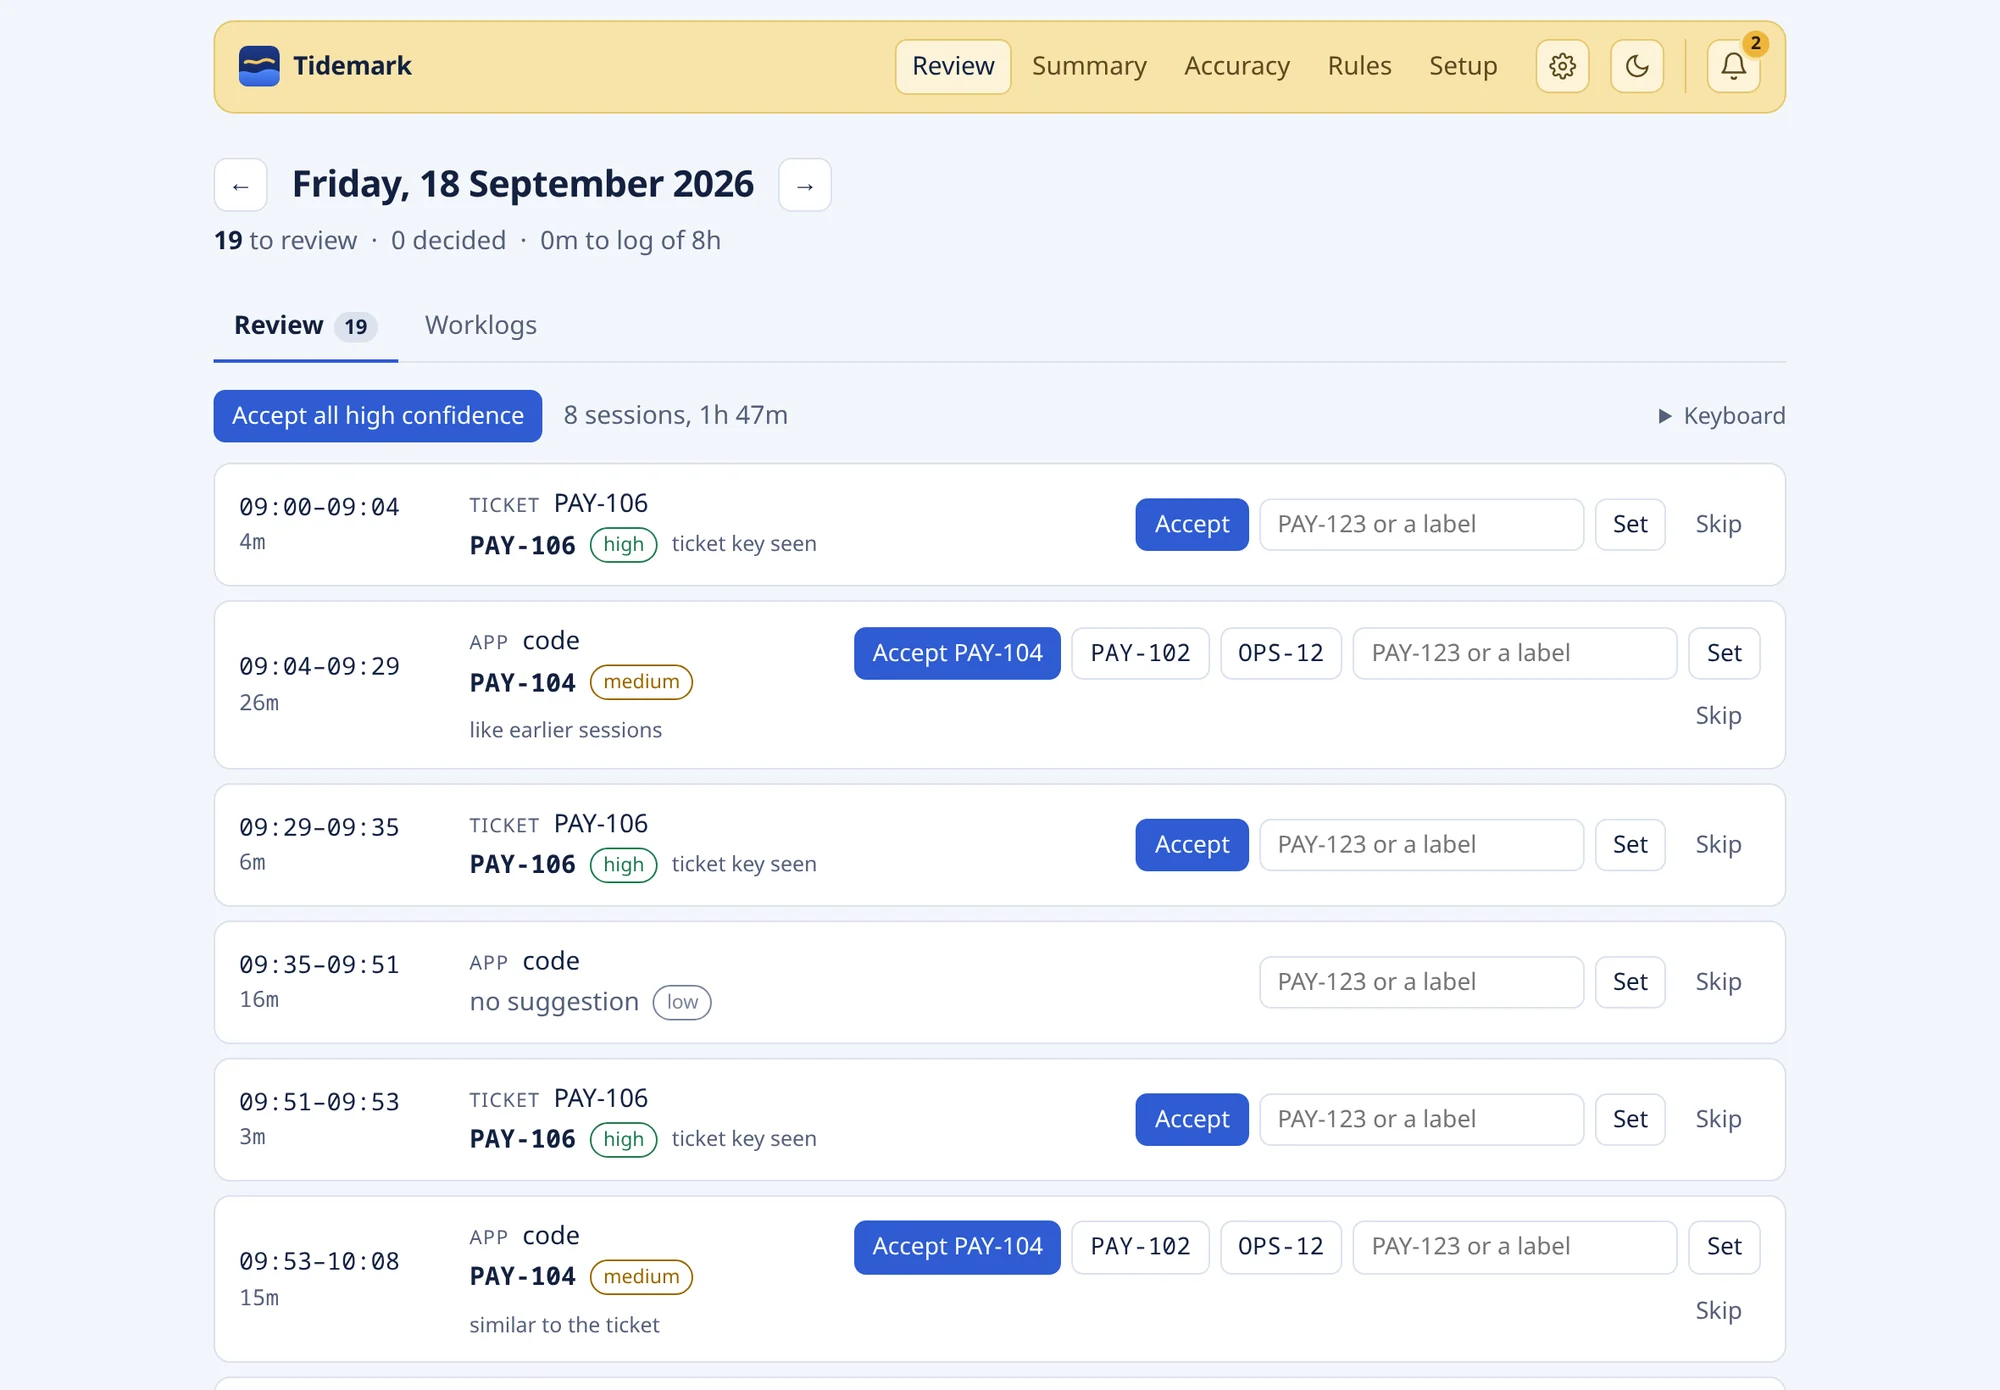
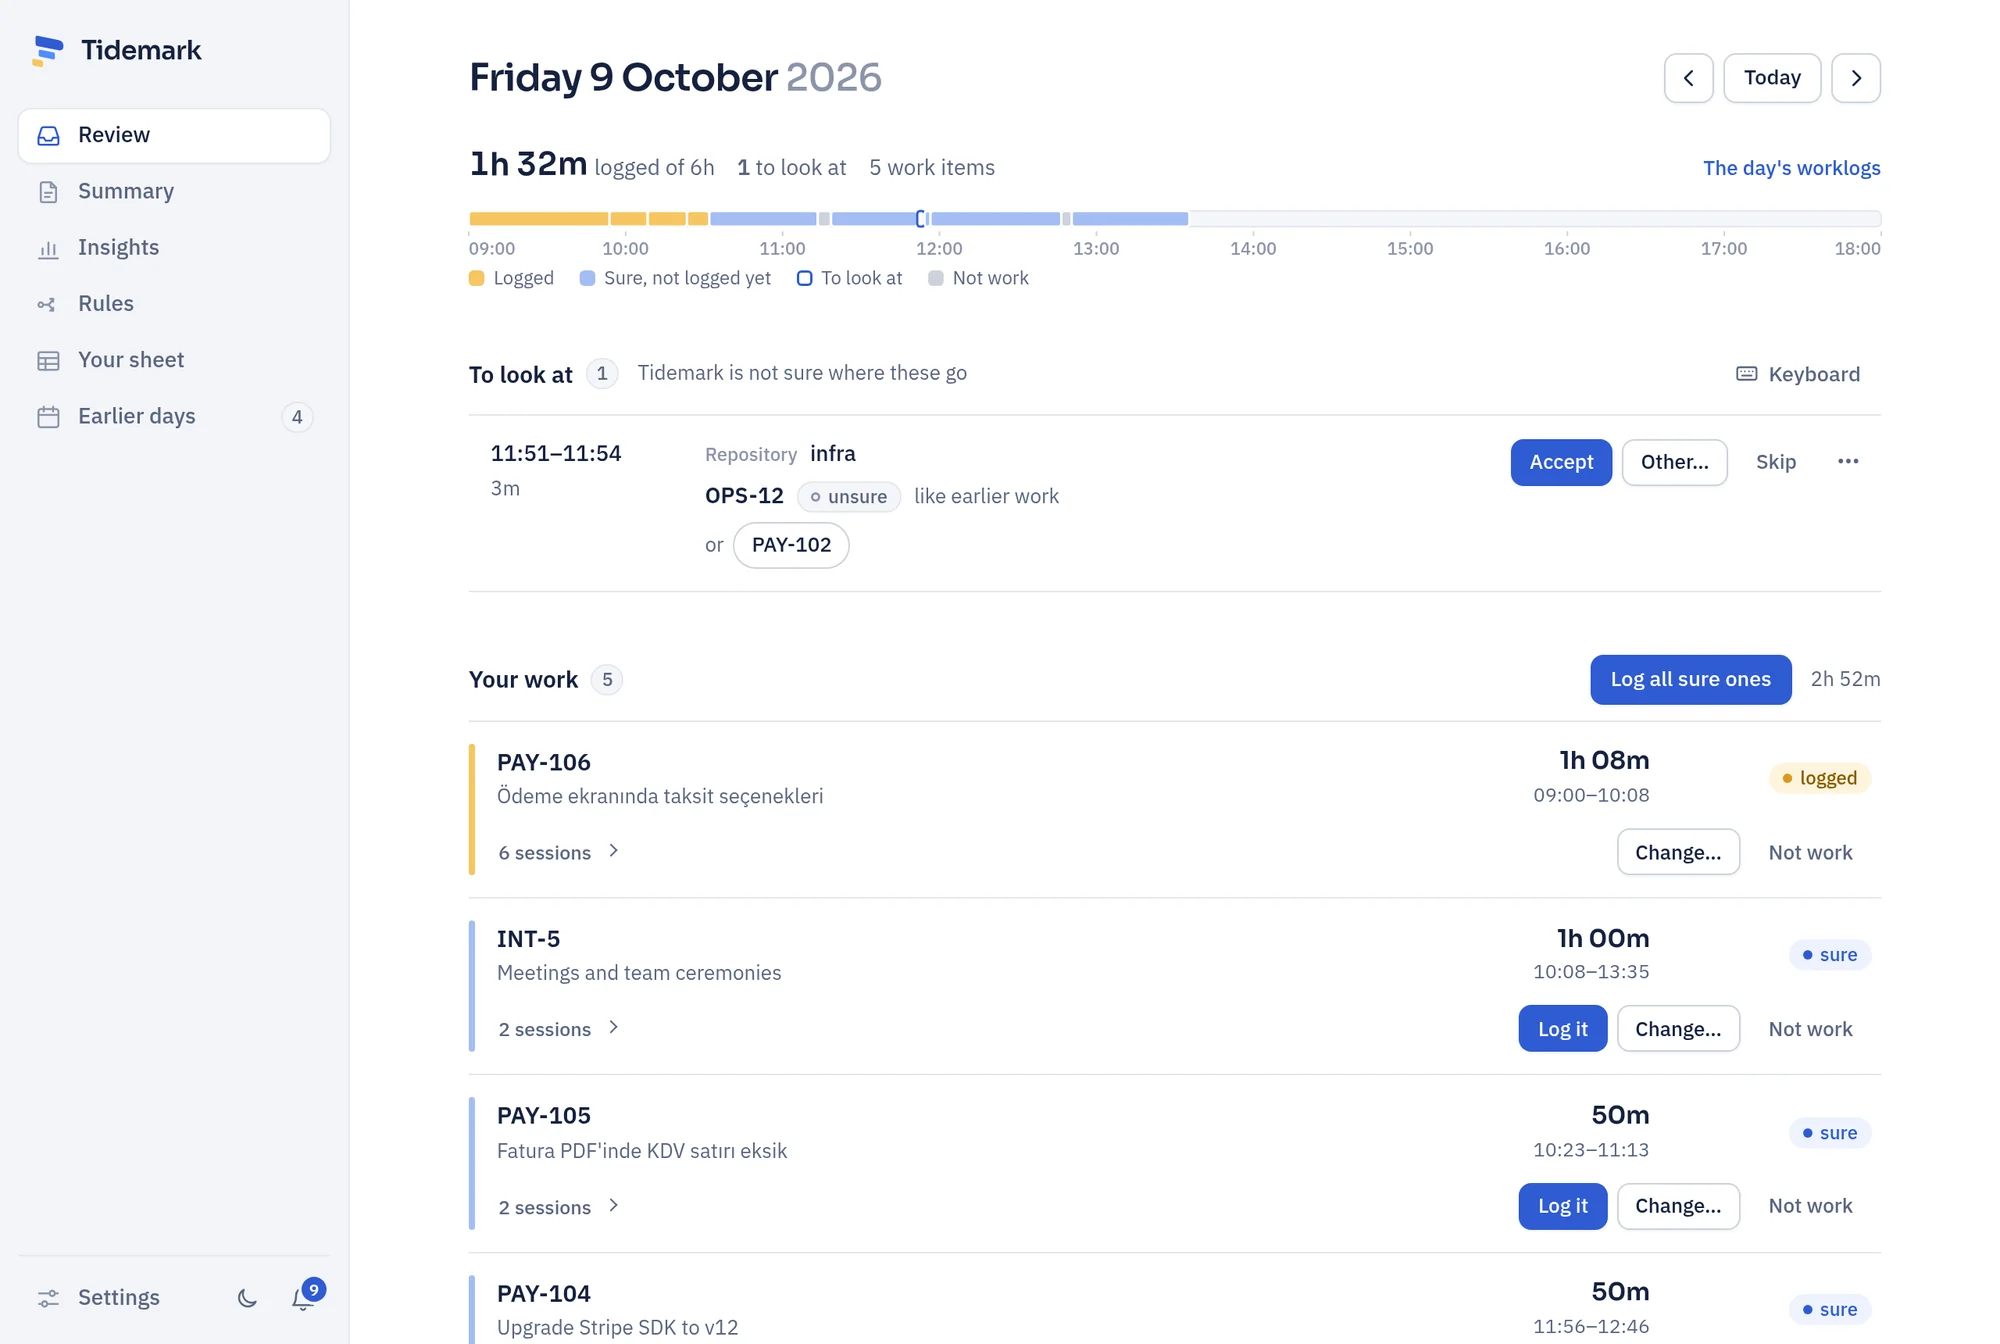
Tidemark: screenshots of the app's new look

diff --git a/src/content/projects/tidemark/index.md b/src/content/projects/tidemark/index.md
@@ -27,7 +27,7 @@ Tidemark runs on your computer and follows what you work on: windows, browser ta
 - **Keeps the day honest.** End-of-day reminders, days that fall short of your working hours pointed out, and worklogs split where you took a long break.
 - **Answers questions.** An MCP server lets Claude tell you what you worked on or write your standup from your reviewed work.
 
-![A week as tide lines in the summary](./summary-dark.webp)
+![A week's logged work in the summary](./summary-dark.webp)
 
 ## Under the hood
 
